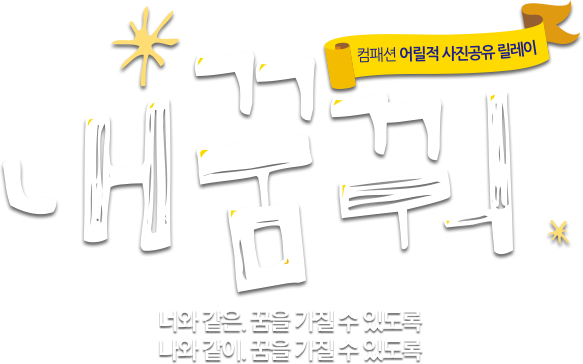
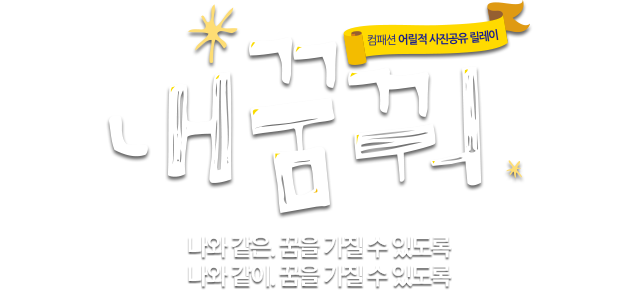
모바일 메인코딩중

diff --git a/MOBILE/css/style.css b/MOBILE/css/style.css
@@ -51,19 +51,26 @@ body.bg_status{
 	position:relative;
 	background:#4d9eaf;
 }
+.wrap_page.main_page .wrap_top_bg{
+	position:relative;
+}
 .wrap_page.main_page .main_top{
 	width:100%;
 	position:relative;
 }
 .wrap_page.main_page .main_top .logo{
-	width:50%;
+	width:47%;
 	float:left;
+	padding-left:3%;
+	padding-top:3%;
 }
 .wrap_page.main_page .main_top .logo img{
 	width:50%;
 }
 .wrap_page.main_page .main_top .btn_how{
-	width:50%;
+	width:47%;
+	padding-right:3%;
+	padding-top:3%;
 	float:left;
 	text-align:right;
 }
@@ -71,9 +78,27 @@ body.bg_status{
 	width:50%;
 }
 
+.wrap_page.main_page .title{
+	padding-bottom:10px;
+}
+.wrap_page.main_page .quick{
+	position:absolute;
+	top:19%;
+	right:0;
+}
+.wrap_page.main_page .quick img{
+	width:80px;
+}
+
+.wrap_page.main_page .main_block{
+	position:relative;
+}
+
 .wrap_page.main_page .btn_block.main{
 	width:100%;
 	text-align:center;
+	position:absolute;
+	top:40%;
 }
 .wrap_page.main_page .btn_block.main img{
 	width:60%;
@@ -81,11 +106,126 @@ body.bg_status{
 
 .wrap_page.main_page .img_child{
 	width:100%;
+	margin-top:-20px;
+	text-align:center;
 }
 .wrap_page.main_page .img_child img{
+	width:70%;
+}
+
+
+
+
+.wrap_page.main_page .main_num{
+	width:100%;
+	position:relative;
+	text-align:center;
+}
+.wrap_page.main_page .main_num img{
+	width:100%;
+}
+.wrap_page.main_page .main_num .num{
+	position:absolute;
+	width:50%;
+	text-align:right;
+	color:#fed90b;
+	bottom:10%;
+	right:14%;
+	font-size:30px;
+}
+
+.wrap_page.main_page .people_list{
+	background:#042641;
+	padding:10px 5px 0px;
+}
+.wrap_page.main_page .people_list .inner_people_list{
 	width:100%;
 }
 
+.wrap_page.main_page .people_list .inner_people_list .one{
+	float:left;
+	padding:0;
+	width:33.3%;
+	text-align:center;
+}
+.wrap_page.main_page .people_list .inner_people_list .one img{
+	width:90%;
+	border:3px solid #fff;
+}
+
+
+.wrap_page.main_page .sec_movie .title_movie{
+	width:100%;
+}
+.wrap_page.main_page .sec_movie .title_movie img{
+	width:100%;
+}
+.wrap_page.main_page .sec_movie .youtube{
+	background:#fff;
+}
+.wrap_page.main_page .sec_movie .btn_movie_block{
+	position:relative;
+}
+.wrap_page.main_page .sec_movie .btn_movie_block a{
+	position:absolute;
+	display:block;
+	width:100%;
+	text-align:center;
+}
+.wrap_page.main_page .sec_movie .btn_movie_block a img{
+	width:60%;
+}
+.wrap_page.main_page .sec_movie .btn_movie_block a.apply{
+	top:15%;
+}
+.wrap_page.main_page .sec_movie .btn_movie_block a.howto{
+	top:55%;
+}
+
+.sec_child_num{
+	position:relative;
+	margin-top:-5px;
+}
+.sec_child_num .bg_bar{
+	position:absolute;
+	height:20px;
+	width:84%;
+	margin-left:8%;
+	background:#fff;
+	border-radius:100px;
+	top:50%;
+	z-index:100;
+}
+.sec_child_num .bg_bar{
+	position:absolute;
+	height:20px;
+	width:84%;
+	margin-left:8%;
+	background:#fff;
+	border-radius:100px;
+	top:50%;
+	z-index:100;
+}
+.sec_child_num .bg_bar .inner_bg_bar{
+	width:100%;
+	position:relative;
+}
+.sec_child_num .bg_bar .inner_bg_bar .bar{
+	width:20%;
+	background:#fed90b;
+	height:20px;
+	border-radius:100px;
+	
+	border-top-right-radius:0;
+	border-bottom-right-radius:0;
+}
+.sec_child_num .num{
+	position:absolute;
+	color:#fff;
+	right:13.5%;
+	top:19%;
+	font-size:30px;
+}
 
 .wrap_page.lms_landing{
 	background:url(../images/bg_lms.jpg) no-repeat;

diff --git a/MOBILE/m_index.html b/MOBILE/m_index.html
@@ -16,19 +16,61 @@ initial-scale=1.0, maximum-scale=3.0"/>
 <body>
     
 	<div class="wrap_page main_page">
-    	<div class="main_top clearfix">
-			<div class="logo"><a href="#"><img src="images/logo_main.png" /></a></div>
-       		<div class="btn_how"><a href="#"><img src="images/btn_howto.png" /></a></div>
-        </div>	
-        <div class="title">
-        	<img src="images/title_main.png" />
+    	<div class="wrap_top_bg">
+            <div class="quick">
+                <a href="#"><img src="images/quick.png" /></a>
+            </div>
+            <div class="main_top clearfix">
+                <div class="logo"><a href="#"><img src="images/logo_main.png" /></a></div>
+                <div class="btn_how"><a href="#"><img src="images/btn_howto.png" /></a></div>
+            </div>	
+            <div class="main_block">
+                <div class="title">
+                    <img src="images/title_main.png" />
+                </div>
+                <div class="btn_block main">
+                    <img src="images/btn_apply_main.png" />
+                </div>
+            
+                <div class="img_child">
+                    <img src="images/img_main_child.png" />
+                </div>
+            </div>    
         </div>
-        <div class="btn_block main">
-        	<img src="images/btn_apply_main.png" />
+        <div class="main_num">
+        	<div class="num">3,000</div>
+        	<img src="images/bg_main_num.png" />
         </div>
         
-        <div class="img_child">
-        	<img src="images/img_main_child.png" />
+        <div class="people_list">
+        	<div class="inner_people_list clearfix">
+            	<div class="one"><img src="images/ex_list.png" /></div>
+                <div class="one"><img src="images/ex_list.png" /></div>
+                <div class="one"><img src="images/ex_list.png" /></div>
+            </div>
+        	
+        </div>
+        
+        <div class="sec_movie">
+        	<div class="title_movie"><img src="images/title_movie.png" /></div>
+            <div class="youtube">영상영역</div>
+            <div class="btn_movie_block">
+            	<a href="#" class="apply"><img src="images/btn_apply_movie.png" /></a>
+                <a href="#" class="howto"><img src="images/btn_howto_movie.png" /></a>
+                <img src="images/bg_sec_movie.jpg" class="bg" />
+            </div>
+        </div>
+        
+        <div class="sec_child_num">
+        	<div class="bg_bar">
+            	<div class="inner_bg_bar">
+                	<div class="bar"></div>
+                </div>
+            </div>
+            <div class="num">
+            	2345
+            </div>
+        	 <img src="images/bg_num_child.jpg" class="bg" />
         </div>
         
     </div>
